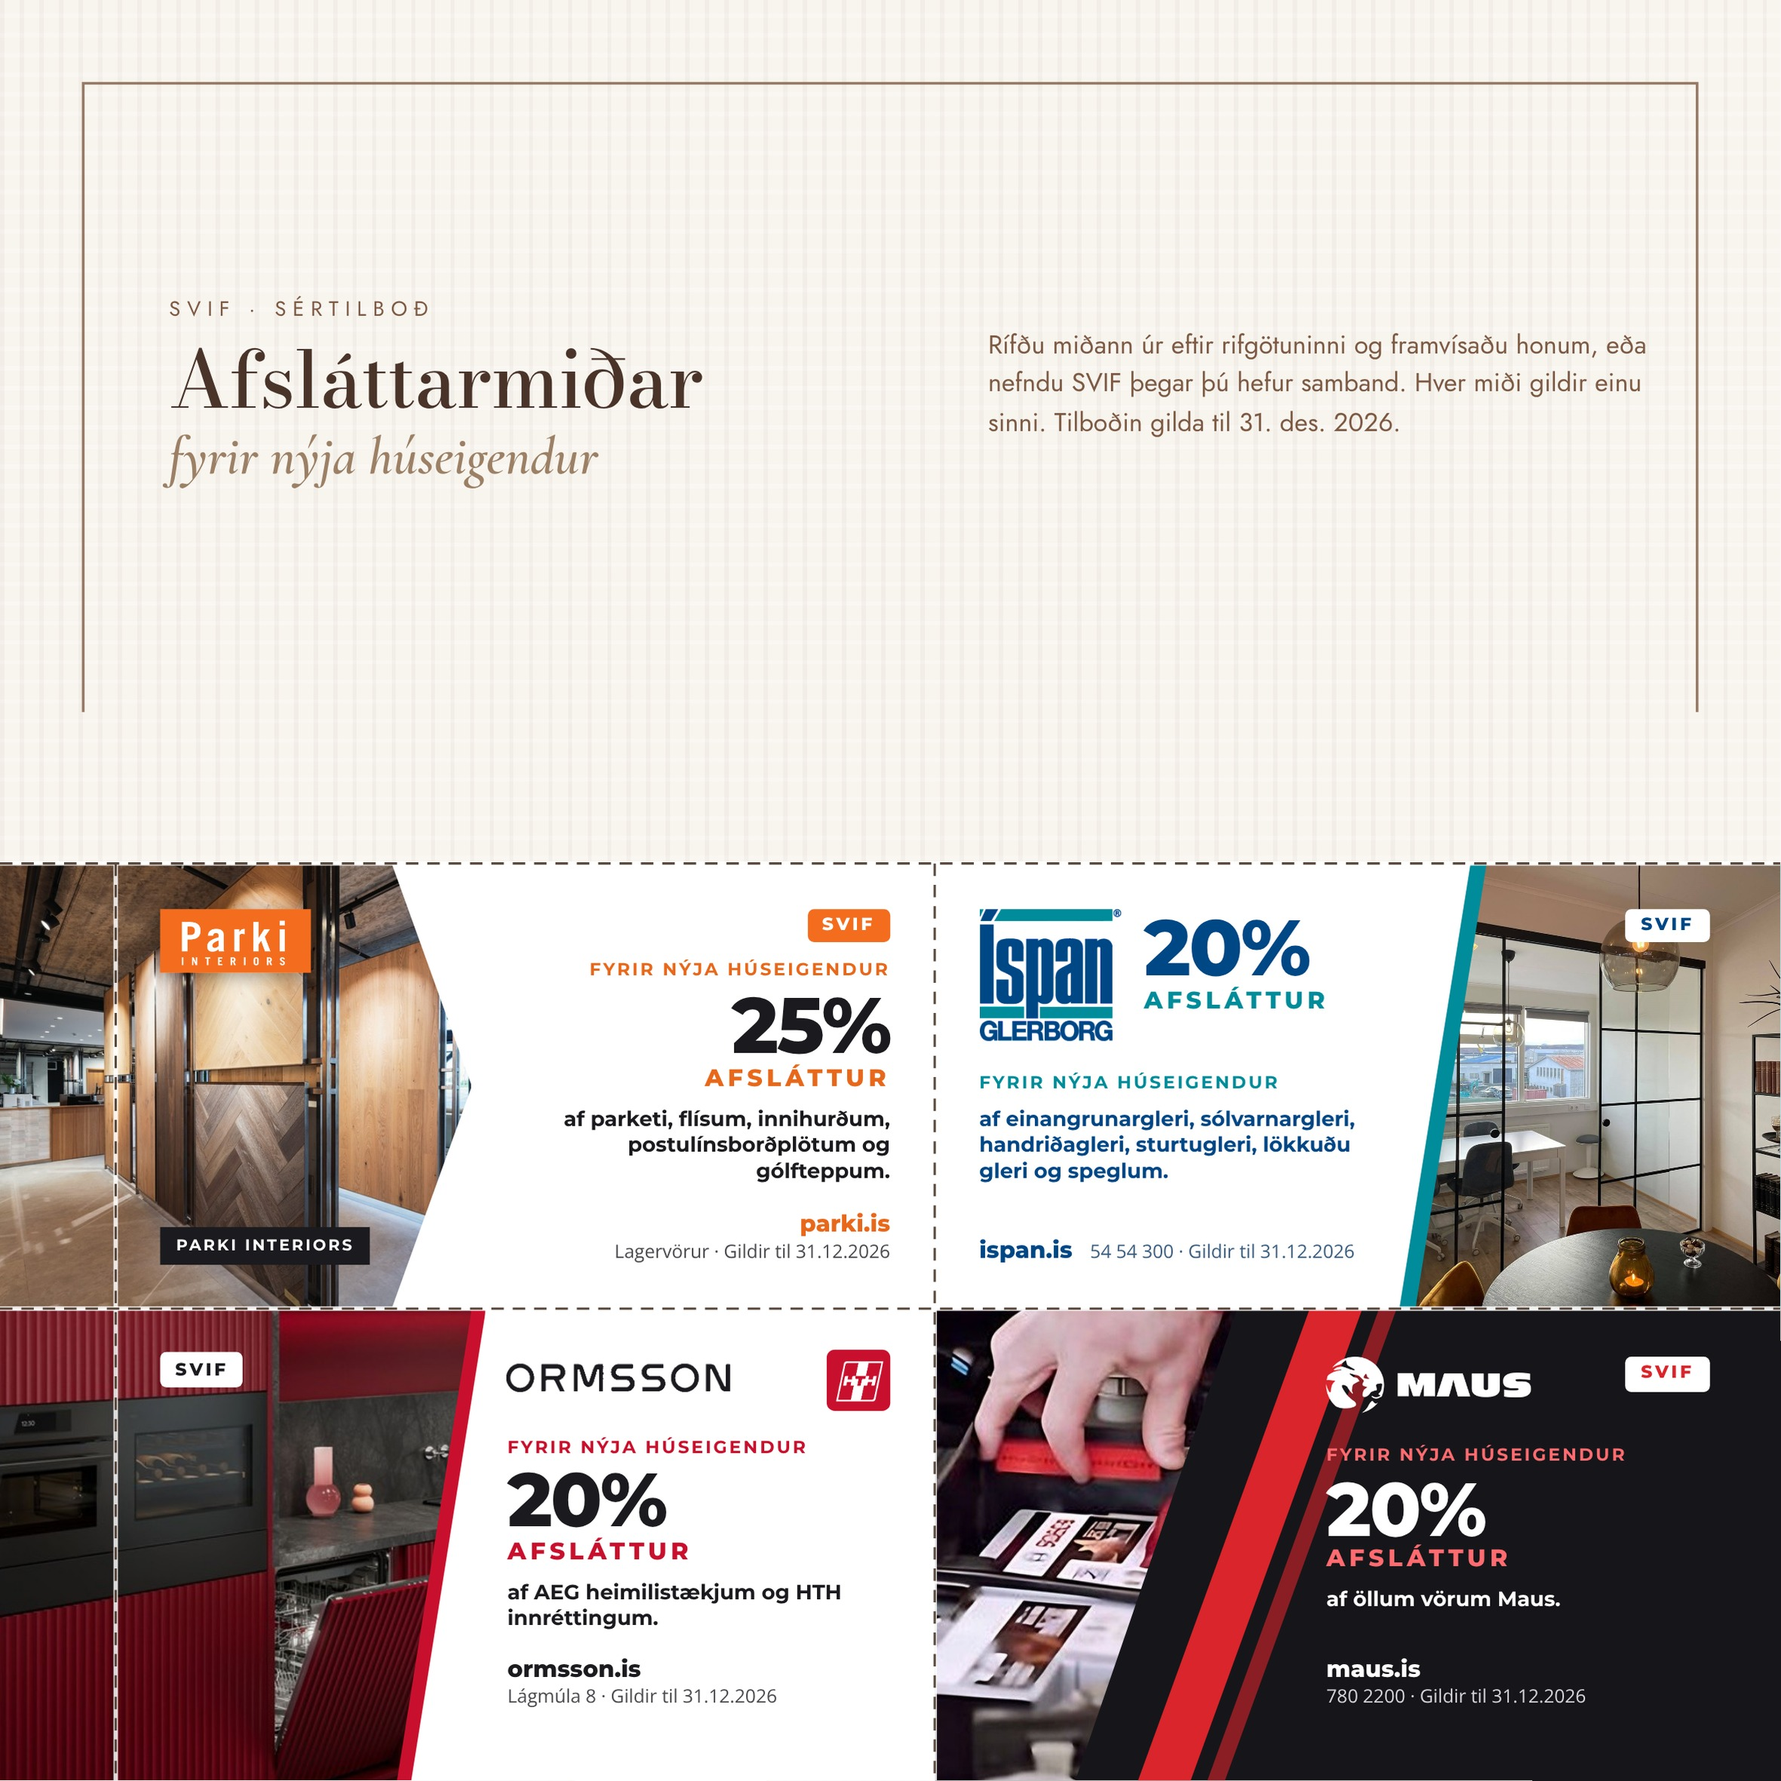
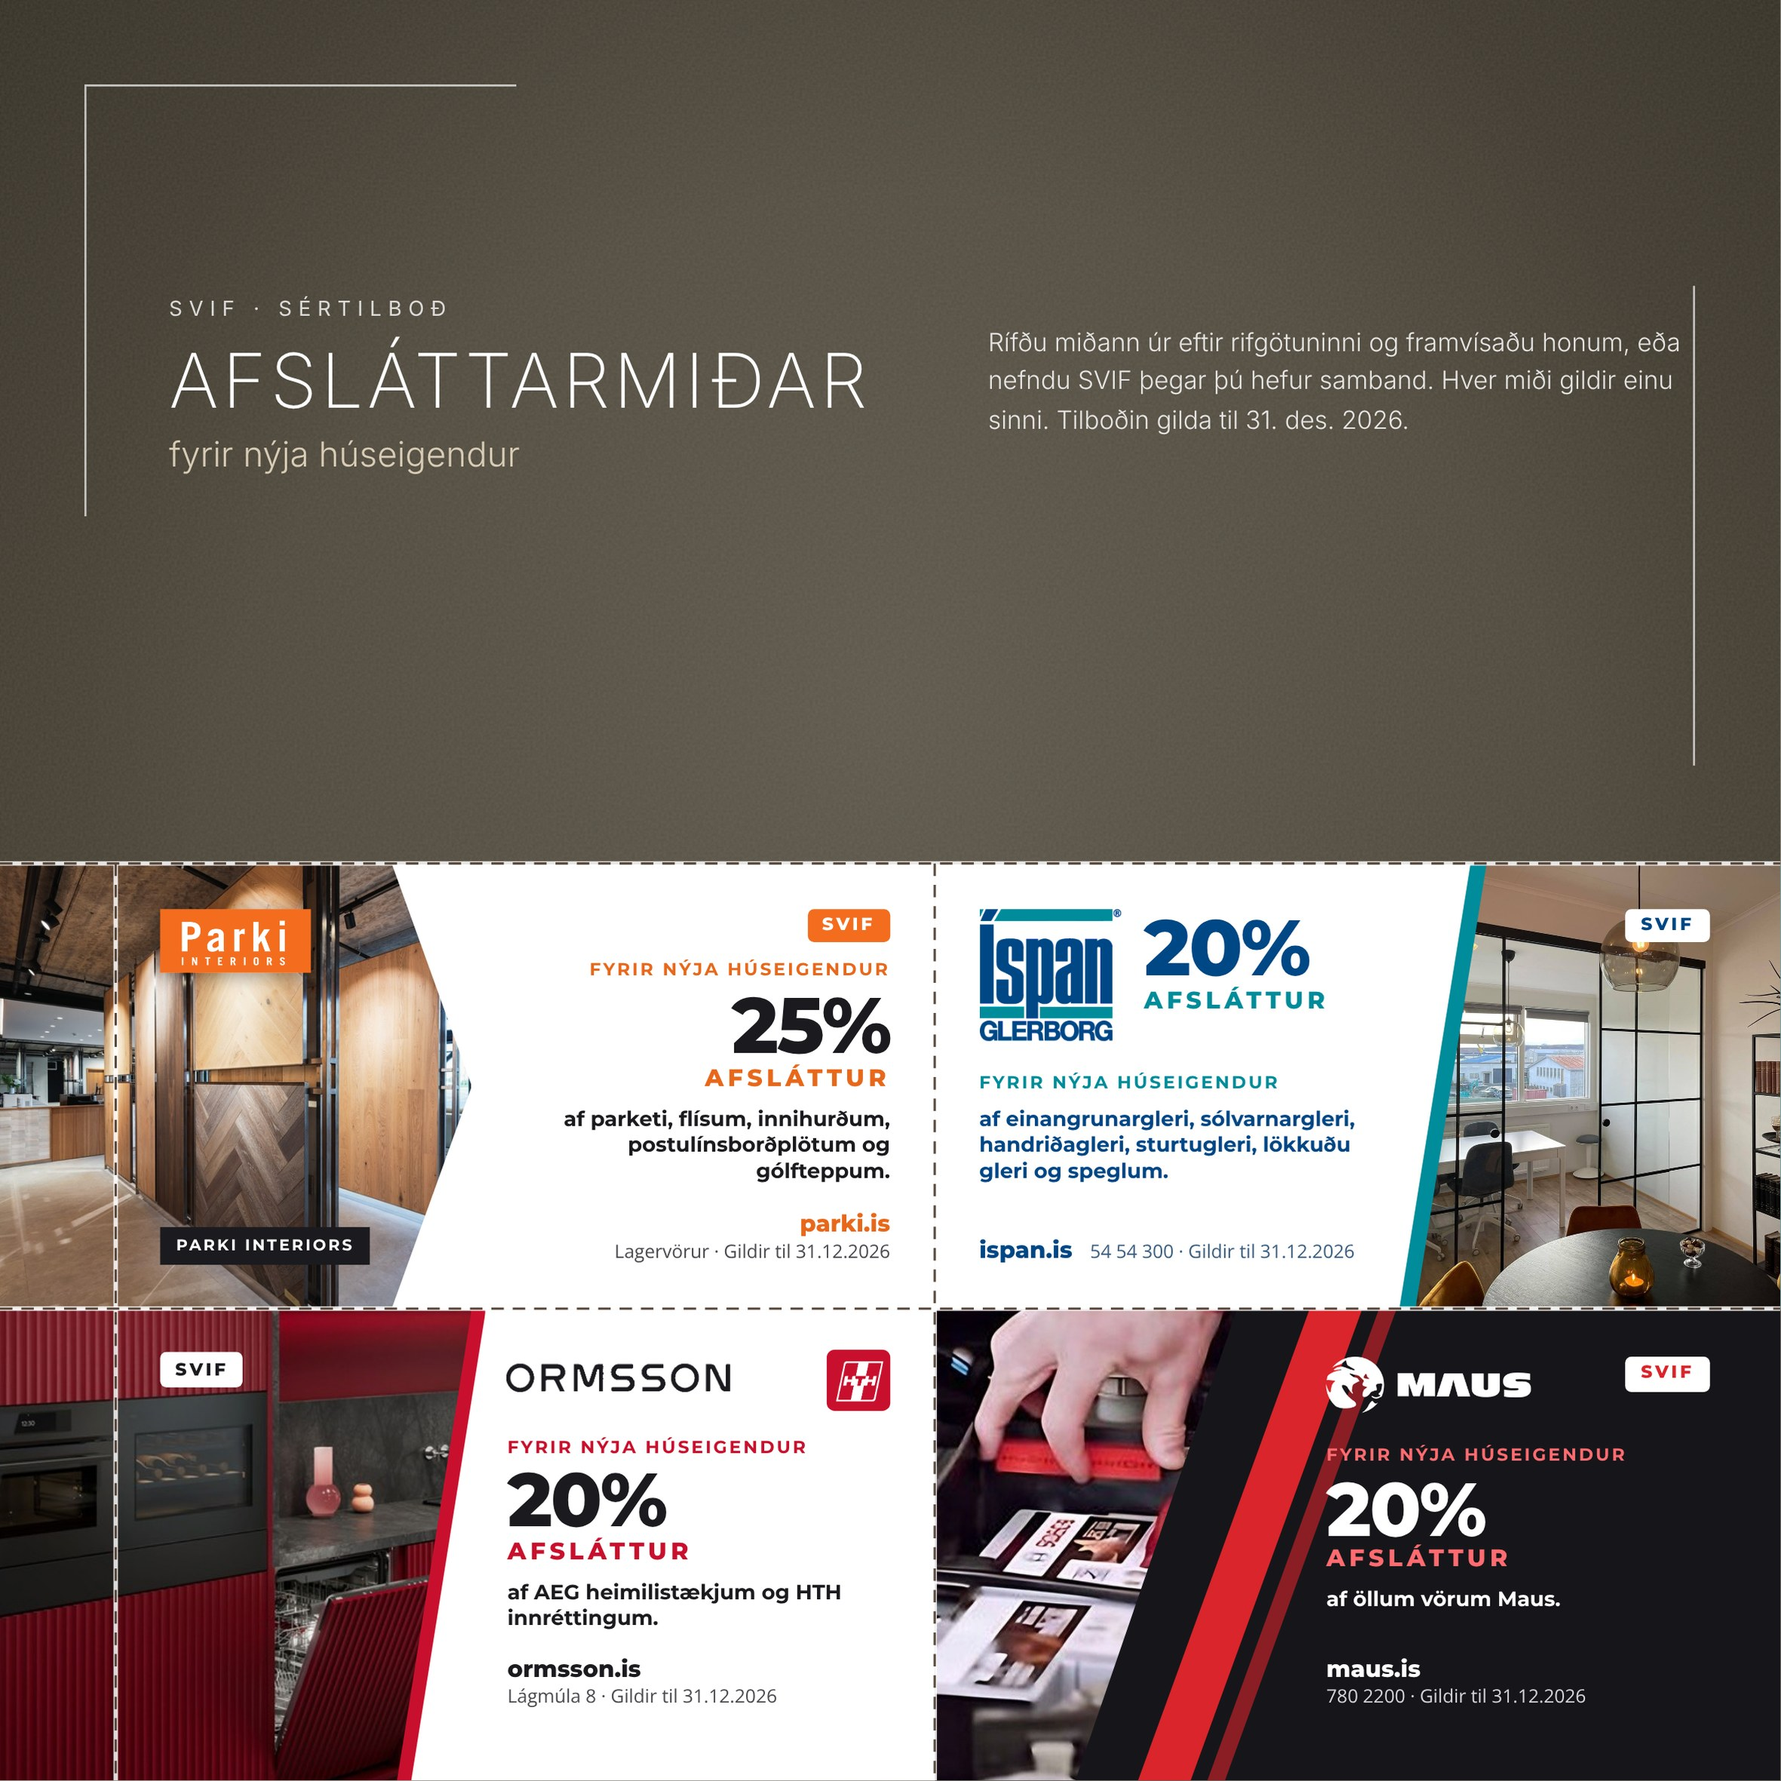
SVIF bæklingur: yfirlit, kynning, Af hverju SVIF og miðasíða í dökku kápuútliti; 3D-mockup
Claude-Session: https://claude.ai/code/session_01JAXd2kxjoayDuyNhEKw2yp

diff --git a/svif-baeklingur/mockup/mockup.html b/svif-baeklingur/mockup/mockup.html
@@ -1,0 +1,26 @@
+<!doctype html><html><head><meta charset="utf-8"><style>
+html,body{margin:0;width:2400px;height:1600px;overflow:hidden}
+body{background:linear-gradient(180deg,#E6E5EF 0%,#E2DDDF 38%,#D6CBBC 100%)}
+.svid{position:absolute;inset:0;perspective:3000px;perspective-origin:50% 0%}
+.bord{position:absolute;left:-400px;top:200px;width:3200px;height:2200px;transform-style:preserve-3d;transform:rotateX(48deg);
+  background:radial-gradient(ellipse at 50% 30%,#E9E4E6 0%,#DCD2C6 55%,#CDBFAE 100%)}
+.hlutur{position:absolute;transform-style:preserve-3d}
+.s{position:absolute;inset:0;background-size:cover;background-position:center}
+.sk{position:absolute;inset:-10px;background:rgba(40,28,15,.5);filter:blur(26px);transform:translate(26px,34px)}
+</style></head><body><div class="svid"><div class="bord">
+ <!-- lokuð bók (forsíða) -->
+ <div class="hlutur" style="left:640px;top:330px;width:760px;height:760px;transform:rotateZ(-9deg)">
+   <div class="sk"></div>
+   <div class="s" style="background:repeating-linear-gradient(90deg,#FBF8F3 0 2px,#D9CFC0 2px 4px);transform:translate(7px,7px)"></div>
+   <div class="s" style="background-image:url(../flett/sidur/sida_00.jpg);box-shadow:0 0 0 1px rgba(0,0,0,.18)"></div>
+   <div class="s" style="background:linear-gradient(118deg,rgba(255,255,255,0) 35%,rgba(255,255,255,.16) 47%,rgba(255,255,255,0) 60%)"></div>
+ </div>
+ <!-- opin bók: Af hverju SVIF + afsláttarmiðar -->
+ <div class="hlutur" style="left:1500px;top:420px;width:1240px;height:620px;transform:rotateZ(5deg)">
+   <div class="sk"></div>
+   <div class="s" style="background:#F4EFE7;transform:translate(0,7px);border-radius:2px"></div>
+   <div style="position:absolute;left:0;top:0;width:620px;height:620px;background-image:url(../flett/sidur/sida_27.jpg);background-size:cover"></div>
+   <div style="position:absolute;left:620px;top:0;width:620px;height:620px;background-image:url(../flett/sidur/sida_28.jpg);background-size:cover"></div>
+   <div class="s" style="background:linear-gradient(90deg,rgba(0,0,0,0) 40%,rgba(0,0,0,.32) 49.4%,rgba(255,255,255,.12) 50.4%,rgba(0,0,0,0) 58%)"></div>
+ </div>
+</div></div></body></html>

diff --git a/svif-baeklingur/darkdc.py b/svif-baeklingur/darkdc.py
@@ -1,0 +1,93 @@
+"""SVIF-innsíðurnar (Yfirlit, Afsláttarmiðar-kynning, Af hverju SVIF) í dökku kápuútliti.
+
+Tekur .dc.html úr hönnunarartifactinu, setur dökka liti inn í props, skiptir Fraunces/Jost út fyrir Inter
+(létt hástafaletur eins og á kápunni), setur dökkan kornóttan grunn og hornlínur kápunnar, og notar ljósar
+útgáfur af húsmyndunum (ljos/*.png).
+"""
+import json
+import os
+import re
+
+from dokk import bg as dokk_bg
+
+D = os.path.dirname(os.path.abspath(__file__))
+A = os.path.join(D, '..', 'artifact-files', '7c048a51-64ed-4bec-ad90-a88fa82fd87a')
+LJOS = os.path.join(D, 'ljos')
+
+DARK = {'paper': '#4A4437', 'panel': 'rgba(255,255,255,0.055)', 'ink': '#FFFFFF',
+        'cocoa': 'rgba(255,255,255,0.78)', 'gold': '#D8CCB6', 'linen': '#4A4437'}
+
+# hornlínur kápunnar í 794 px hnitum (194 mm skurður)
+FRAME = ('<svg aria-hidden="true" width="794" height="794" viewBox="0 0 794 794" style="position:absolute;left:0;top:0;pointer-events:none;z-index:1">'
+         '<g fill="none" stroke="#fff" stroke-opacity=".7" stroke-width="0.9">'
+         '<path d="M27,225 V27 H225"/><path d="M767,119 V767 H529"/><path d="M27,508 V767"/></g></svg>')
+
+
+def fonts_css():
+    return open(os.path.join(D, 'fonts.css')).read()
+
+
+def restyle(body):
+    # stórar fyrirsagnir: Fraunces 700 -> Inter 200, hástafir
+    body = re.sub(r"font-family: Fraunces, Georgia, serif; font-variation-settings: 'SOFT' 60, 'WONK' 1; font-weight: 700; font-size: (\d+)px; line-height: ([\d.]+); letter-spacing: -?[\d.]+px;",
+                  lambda m: (f"font-family: Inter, sans-serif; font-weight: 200; font-size: {int(int(m.group(1)) * 0.92)}px; line-height: {m.group(2)}; letter-spacing: 0.04em; text-transform: uppercase;"
+                             if int(m.group(1)) >= 36 else
+                             f"font-family: Inter, sans-serif; font-weight: 300; font-size: {int(m.group(1)) - 2}px; line-height: {m.group(2)}; letter-spacing: 0;"),
+                  body)
+    body = re.sub(r"font-family: Fraunces, Georgia, serif; font-variation-settings: 'SOFT' 60, 'WONK' 1; font-weight: 700;",
+                  "font-family: Inter, sans-serif; font-weight: 300; letter-spacing: 0.02em; text-transform: uppercase;", body)
+    # millifyrirsagnir (600) -> Inter 400
+    body = body.replace("font-family: Fraunces, Georgia, serif; font-variation-settings: 'SOFT' 60, 'WONK' 1; font-weight: 600;",
+                        "font-family: Inter, sans-serif; font-weight: 400; letter-spacing: 0.01em;")
+    # skáletur (italic 500) -> Inter 300 uppréttur
+    body = body.replace("font-family: Fraunces, Georgia, serif; font-variation-settings: 'SOFT' 60, 'WONK' 1; font-style: italic; font-weight: 500;",
+                        "font-family: Inter, sans-serif; font-weight: 300;")
+    body = body.replace('font-family: Jost, sans-serif', 'font-family: Inter, sans-serif')
+    # ljós pappírsáferð burt, dökkur grunnur kemur í staðinn
+    body = re.sub(r"background-image: repeating-linear-gradient\(90deg, rgba\(74,52,42,0\.0\d+\)[^;]*;", 'background-image: none;', body, count=1)
+    # gömlu rammalínurnar (fyrsta svg-ið) burt
+    body = re.sub(r'<svg aria-hidden="true" width="794" height="794" viewBox="0 0 794 794" style="position: absolute; left: 0; top: 0; pointer-events: none"><path d="M[^"]*" fill="none" stroke="[^"]*" stroke-width="1.2" opacity="0.[58]"></path></svg>', '', body, count=1)
+    return body
+
+
+def build(name, out, edits=(), blobs=None):
+    src = open(f'{A}/project/{name}.dc.html', encoding='utf-8').read()
+    props = json.loads(re.search(r"data-props='(.*?)'>", src, re.S).group(1))
+    helmet = re.search(r'<helmet>(.*?)</helmet>', src, re.S).group(1)
+    body = re.search(r'</helmet>\s*(.*?)\s*</x-dc>', src, re.S).group(1)
+    defaults = {}
+    for k, v in props.items():
+        if isinstance(v, dict) and 'default' in v:
+            body = body.replace('{{' + k + '}}', v['default']); defaults[k] = v['default']
+    assert '{{' not in body
+    for a, b in edits:  # sömu breytingar og á ljósu útgáfunni (litir þá enn sjálfgefnir)
+        assert body.count(a) == 1, (body.count(a), a[:80])
+        body = body.replace(a, b)
+    for k, v in defaults.items():
+        if k in DARK:
+            body = body.replace(v, DARK[k])
+    body = body.replace('rgba(125,90,68,0.3)', 'rgba(255,255,255,0.22)').replace('rgba(74,52,42,0.12)', 'rgba(0,0,0,0.25)')
+    body = restyle(body)
+
+    def blob(m):
+        bid = m.group(1)
+        if blobs and bid in blobs:
+            return f'src="{blobs[bid]}"'
+        for p in (f'{LJOS}/{bid}.png', f'{A}/{bid}.png', f'{A}/{bid}.svg'):
+            if os.path.exists(p):
+                return f'src="file://{os.path.abspath(p)}"'
+        raise SystemExit('vantar ' + bid)
+    body = re.sub(r'src="/_blob/([0-9a-f]{32})"', blob, body)
+    style = re.search(r'<style>(.*?)</style>', helmet, re.S).group(1)
+    grunnur = '.grunnur{position:absolute;inset:0;' + dokk_bg(True) + '}'
+    # dökki grunnurinn og hornlínurnar fara inn í rótarblokkina, fyrir aftan efnið
+    body = body.replace('>', '><div class="grunnur" style="z-index:0"></div>' + FRAME, 1)
+    page = (f'<!doctype html><html lang="is"><head><meta charset="utf-8"><style>{fonts_css()}{style}\n'
+            'html,body{margin:0;padding:0;width:794px;height:794px;overflow:hidden;background:#4A4437}@page{margin:0}'
+            f'{grunnur}</style></head><body>{body}</body></html>')
+    open(os.path.join(D, out), 'w', encoding='utf-8').write(page)
+    print('built', out)
+
+
+if __name__ == '__main__':
+    import build_svif_pages as b  # noqa: F401  (endurnýtir edits-listann fyrir Yfirlit)

diff --git a/svif-baeklingur/midar2.py b/svif-baeklingur/midar2.py
@@ -139,25 +139,29 @@ def frame(path):
 
 def page(body, bg=None):
     fonts = open(os.path.join(D, 'fonts.css')).read()
-    return (f'<!doctype html><html lang="is"><head><meta charset="utf-8"><style>{fonts}{CSS}</style></head>'
-            f'<body><div style="position:absolute;inset:0;{bg or LINEN}"></div>{body}</body></html>')
+    from dokk import bg as dokk_bg
+    extra = ('.grunnur{' + dokk_bg(False) + '}') if bg and bg.startswith('background-color:#4A4437') else ''
+    return (f'<!doctype html><html lang="is"><head><meta charset="utf-8"><style>{fonts}{CSS}{extra}</style></head>'
+            f'<body><div class="grunnur" style="position:absolute;inset:0;{bg or LINEN}"></div>{body}</body></html>')
 
 
 def midar():
     # haus: í tveimur dálkum svo rifgötunin (x = 105 mm) fari ekki í gegnum textann
-    head = (f'<div style="position:absolute;left:{X0 + 6}mm;width:{X1 - X0 - 12}mm;top:{B + 30}mm;color:{INK}">'
-            f'<div style="font-family:Jost;font-size:6.6pt;letter-spacing:.32em;text-transform:uppercase;color:{COCOA}">SVIF · Sértilboð</div>'
-            f'<div style="font-family:\'Bodoni Moda\',serif;font-weight:500;font-size:25pt;line-height:1.02;letter-spacing:-.01em;margin-top:2mm">Afsláttarmiðar</div>'
-            f'<div style="font-family:\'Cormorant Garamond\',serif;font-style:italic;font-weight:600;font-size:17pt;line-height:1.1;color:{GOLD};margin-top:1mm">fyrir nýja húseigendur</div></div>'
-            f'<div style="position:absolute;left:{X1 + 6}mm;width:{197 - 7 - X1 - 6}mm;top:{B + 33.5}mm;font-family:Jost;font-size:8.2pt;line-height:1.5;color:{COCOA}">'
+    head = (f'<div style="position:absolute;left:{X0 + 6}mm;width:{X1 - X0 - 12}mm;top:{B + 30}mm;color:#fff">'
+            f'<div style="font-family:Inter;font-weight:400;font-size:6.6pt;letter-spacing:.32em;text-transform:uppercase;color:rgba(255,255,255,.8)">SVIF · Sértilboð</div>'
+            f'<div style="font-family:Inter;font-weight:200;font-size:24pt;line-height:1.05;letter-spacing:.05em;text-transform:uppercase;margin-top:2.4mm">Afsláttarmiðar</div>'
+            f'<div style="font-family:Inter;font-weight:300;font-size:11pt;line-height:1.3;color:#D8CCB6;margin-top:1.6mm">fyrir nýja húseigendur</div></div>'
+            f'<div style="position:absolute;left:{X1 + 6}mm;width:{197 - 7 - X1 - 6}mm;top:{B + 33.5}mm;font-family:Inter;font-weight:300;font-size:8pt;line-height:1.55;color:rgba(255,255,255,.85)">'
             'Rífðu miðann úr eftir rifgötuninni og framvísaðu honum, eða nefndu SVIF þegar þú hefur samband. '
             'Hver miði gildir einu sinni. Tilboðin gilda til 31. des. 2026.</div>')
     tiles = (tile(X0, Y0, X0, 0, 0, '#ffffff', parki, 'parki') +
              tile(X1, Y0, 0, B, 0, '#ffffff', ispan, 'ispan') +
              tile(X0, Y1, X0, 0, B, '#ffffff', ormsson, 'ormsson') +
              tile(X1, Y1, 0, B, B, '#16161a', maus, 'maus'))
-    top_frame = frame('M9.35,80 V9.35 H190.65 V80')
-    return page(top_frame + head + tiles + perf(), PAPER)
+    from dokk import bg as dokk_bg
+    top_frame = ('<svg viewBox="0 0 200 200" style="position:absolute;left:0;top:0;width:200mm;height:200mm" aria-hidden="true">'
+                 '<g fill="none" stroke="#fff" stroke-opacity=".7" stroke-width=".22"><path d="M9.6,58 V9.6 H58"/><path d="M190.3,32.1 V86"/></g></svg>')
+    return page(top_frame + head + tiles + perf(), 'background-color:#4A4437')
 
 
 def aud():

diff --git a/svif-baeklingur/assemble_all.py b/svif-baeklingur/assemble_all.py
@@ -6,13 +6,13 @@ ad = lambda i: os.path.join(D, 'out', 'ads', f'p{i:02d}.jpg')
 pdf = lambda n: os.path.join(D, 'out', n + '.pdf')
 ny = lambda n: os.path.join(D, 'out', 'ads', n + '.jpg')
 PAGES = [  # (heiti, uppruni) – 32 síður, heftaður
-    ('Forsíða', ny('kapa_fram')), ('Yfirlit', os.path.join(D,'out','yfirlit.jpg')), ('Afsláttarmiðar (kynning)', os.path.join(D,'out','afslaettir.jpg')),
+    ('Forsíða', ny('kapa_fram')), ('Yfirlit', os.path.join(D,'out','yfirlit_dark.jpg')), ('Afsláttarmiðar (kynning)', os.path.join(D,'out','afslaettir_dark.jpg')),
     ('Straumlind', img(4)), ('Ísorka', img(13)), ('Parki', img(5)), ('Íspan', img(6)), ('Sticker', img(7)), ('KORA', ad(8)),
     ('HTH', img(9)), ('Ormsson AEG', img(10)), ('Maus', ad(11)), ('Maus', ad(12)), ('Gluggavinir', img(17)), ('TME Gluggar', ny('tme')),
     ('Gardínur', ad(20)), ('Fagafl', ny('fagafl')), ('Litamálun', img(18)), ('Múrbúðin', img(19)), ('HK Lagnir', ad(15)), ('MS Lagnir', ny('mslagnir')),
     ('Lásar.is', img(16)), ('VÍS', ad(25)), ('RÓM Verk', img(23)),
     ('Laust auglýsingapláss 1', os.path.join(D,'out','d_laust1.jpg')), ('Laust auglýsingapláss 2', os.path.join(D,'out','d_laust2.jpg')), ('Laust auglýsingapláss 3', os.path.join(D,'out','d_laust3.jpg')),
-    ('Af hverju SVIF', img(3)), ('Afsláttarmiðar', os.path.join(D,'out','midar2_framhlid.jpg')), ('Auð síða (bakhlið miðanna)', os.path.join(D,'out','d_aud.jpg')),
+    ('Af hverju SVIF', os.path.join(D,'out','umsvif_dark.jpg')), ('Afsláttarmiðar', os.path.join(D,'out','midar2_framhlid.jpg')), ('Auð síða (bakhlið miðanna)', os.path.join(D,'out','d_aud.jpg')),
     ('Kærar þakkir', os.path.join(D,'out','d_thakkir.jpg')), ('Bakkápa', ny('kapa_bak')),
 ]
 assert len(PAGES) % 4 == 0 and len(PAGES) == 32

diff --git a/svif-baeklingur/build_dark_pages.py b/svif-baeklingur/build_dark_pages.py
@@ -1,0 +1,8 @@
+import build_svif_pages as b
+from darkdc import build
+build('Yfirlit', 'yfirlit_dark.html', b.edits)
+build('Afslaettir', 'afslaettir_dark.html', [
+    ('Sex fyrirtæki í bókinni bjóða nýjum húseigendum afslátt.', 'Fjögur fyrirtæki í bókinni bjóða nýjum húseigendum afslátt.'),
+    ('style="position: relative; width: 670px; height: 454px; display: block"', 'style="position: relative; width: 690px; height: 454px; display: block; object-fit: contain"'),
+], blobs={'4a5740764184436a45fbefedb470dc83': 'out/ring_crop.png'})
+build('UmSvif', 'umsvif_dark.html', [('font-size: 50px; line-height: 1; letter-spacing: -1px; color: #4A342A">Af hverju SVIF?', 'font-size: 39px; line-height: 1; letter-spacing: -1px; color: #4A342A">Af hverju SVIF?')])

diff --git a/svif-baeklingur/README.md b/svif-baeklingur/README.md
@@ -12,7 +12,9 @@ claude/adoring-heisenberg-mywx1q (auglysingar/), gerðar úr PDF í 300 dpi með
 ## Útlit kápunnar
 
 Forsíða og bakkápa eru nýju myndirnar (dökkur hlýr grár grunnur, mjóar hvítar hornlínur, Inter). `dokk.py` gerir
-Kærar þakkir, auðu síðuna og lausu plássin í sama útliti (`sidur/d_*.jpg`, 300 dpi).
+Kærar þakkir, auðu síðuna og lausu plássin í sama útliti (`sidur/d_*.jpg`, 300 dpi). `darkdc.py` + `build_dark_pages.py`
+setja Yfirlit, Afsláttarmiða-kynninguna og Af hverju SVIF í sama útlit með ljósum útgáfum af húsmyndunum (`ljos/`).
+Haus miðasíðunnar (bls. 29) er líka dökkur. 3D-mockup: `SVIF_baeklingur_3D_mockup.jpg` (`mockup/mockup.html`).
 
 ## Á vefnum
 
